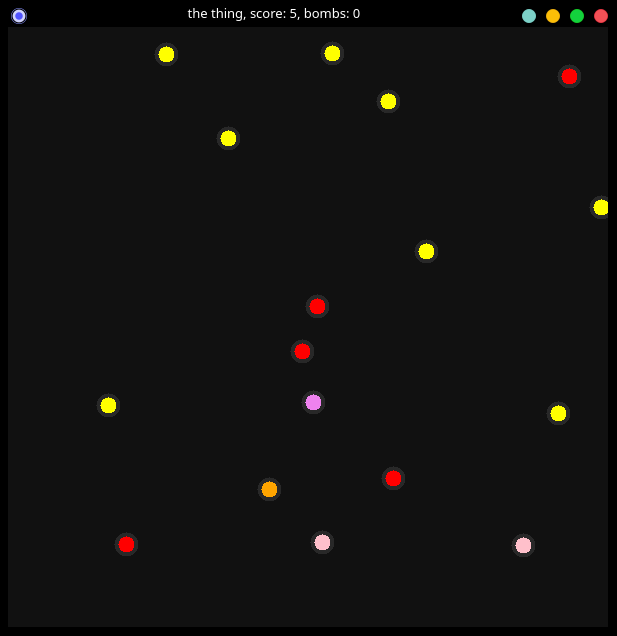
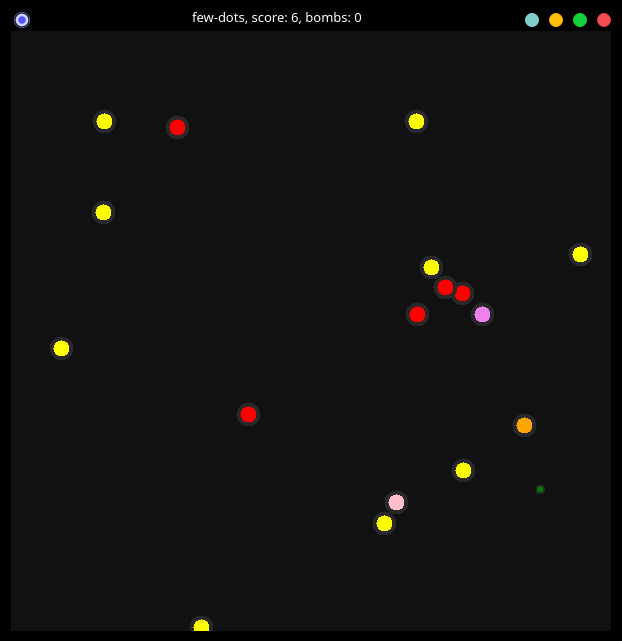
title update

diff --git a/main.py b/main.py
@@ -8,7 +8,7 @@ from storage import data
 
 root = Tk()
 
-init_title = "colored-dots, score: " + str(data["eaten"]) + ', bombs: ' + str(data["n_bombs"])
+init_title = "few-dots, score: " + str(data["eaten"]) + ', bombs: ' + str(data["n_bombs"])
 root.title(init_title)
 # root.iconbitmap("ico.ico")
 photo = PhotoImage(file="assets/ico.png")
@@ -43,7 +43,7 @@ def on_right_mouse_click(event):
                       tags='bomb' + str(data['n_bomb']))
         data['n_bombs'] -= 1
         data['n_bomb'] += 1
-        root.title("the thing, score: " + str(data["eaten"]) + ', bombs: ' + str(data["n_bombs"]))
+        root.title("few-dots, score: " + str(data["eaten"]) + ', bombs: ' + str(data["n_bombs"]))
     if data['game_is_over']:
         restart(0)
 
@@ -124,7 +124,7 @@ def get_bomb():
             e[0], e[1] = None, None
             # data["n_bomb_init"] += 1
             data['n_bombs'] += 1
-            root.title("the thing, score: " + str(data["eaten"]) + ', bombs: ' + str(data["n_bombs"]))
+            root.title("few-dots, score: " + str(data["eaten"]) + ', bombs: ' + str(data["n_bombs"]))
 
 
 def update():
@@ -193,7 +193,7 @@ def check_hunter_collapse():
             canvas.delete("food" + str(i))
             e[0], e[1] = None, None
             data["eaten"] += 1
-            root.title("the thing, score: " + str(data["eaten"]) + ', bombs: ' + str(data["n_bombs"]))
+            root.title("few-dots, score: " + str(data["eaten"]) + ', bombs: ' + str(data["n_bombs"]))
             # data['position'] = e
             # data['fix_position'] = e
 
